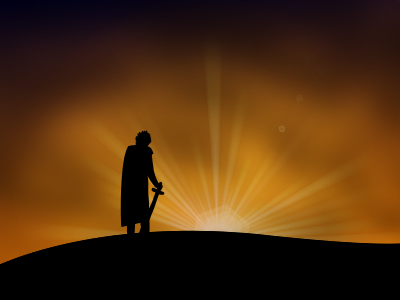
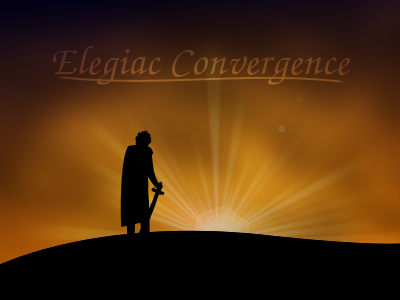
Made main menu a little better.
git-svn-id: svn://svn.code.sf.net/p/annchienta/code/trunk@583 6c58e83f-43c0-4801-a1bd-44083660f6ae

Changed region(s): [[0.12, 0.15, 0.87, 0.3], [0.45, 0.15, 0.48, 0.18]]

diff --git a/Annchienta/elegiac_convergence/main.py b/Annchienta/elegiac_convergence/main.py
@@ -50,7 +50,7 @@ partyManager = party.getPartyManager()
 
 # Main menu
 title_background = annchienta.Surface("assets/title.png")
-title_font = annchienta.Font("assets/italics.ttf", 24)
+title_font = annchienta.Font("assets/italics.ttf", 14)
 surf = annchienta.Surface( 400, 300, 3 )
 while inputManager.running():
 
@@ -63,12 +63,11 @@ while inputManager.running():
     videoManager.drawSurface( title_background, 0, 0 )
 
     videoManager.setColor(255,255,255)
-    videoManager.drawStringCentered( title_font, "Elegiac Convergence", videoManager.getScreenWidth()/2, 10 )
 
     options = ["Continue", "New Game", "Quit"]
     for i in range(len(options)):
-        if inputManager.hover( 0, 40+i*title_font.getLineHeight(), videoManager.getScreenWidth(), 40+(i+1)*title_font.getLineHeight() ):
-            videoManager.setColor(255,255,255)
+        if inputManager.hover( 0, 240+i*title_font.getLineHeight(), videoManager.getScreenWidth(), 240+(i+1)*title_font.getLineHeight() ):
+            videoManager.setColor(238,206,51)
 
             if inputManager.buttonTicked(0):
                 if options[i]=="Continue" or options[i]=="New Game":
@@ -87,15 +86,12 @@ while inputManager.running():
                     inputManager.stop()
 
         else:
-            videoManager.setColor(150,150,0)
+            videoManager.setColor(198,126,23)
 
         if inputManager.running():
-            videoManager.drawStringCentered( title_font, str(options[i]), videoManager.getScreenWidth()/2, 40+i*title_font.getLineHeight() )
+            videoManager.drawStringCentered( title_font, str(options[i]), videoManager.getScreenWidth()/2, 240+i*title_font.getLineHeight() )
 
-    #videoManager.boxBlur( 100, 100, 300, 200, 6 )
-    #videoManager.grabBuffer( surf )
-    #videoManager.begin()
-    #videoManager.drawSurface( surf, 0, 0, 0, 0, 200, 100 )
     videoManager.end()
 
 logManager.message("Finished playing Elegiac Convergence.")
+
